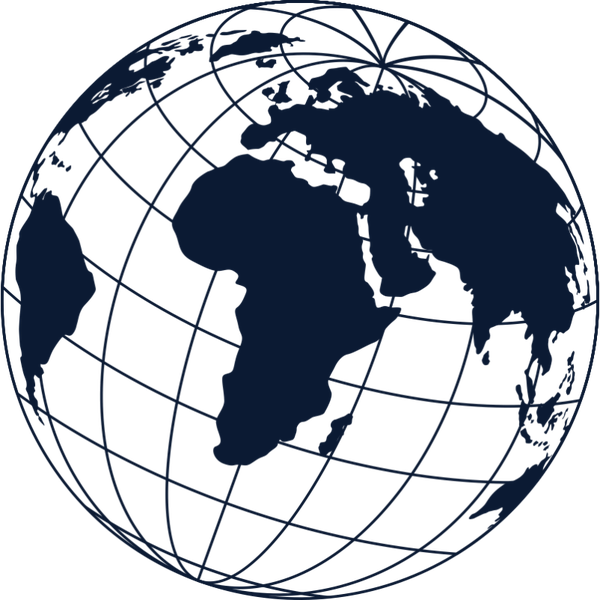
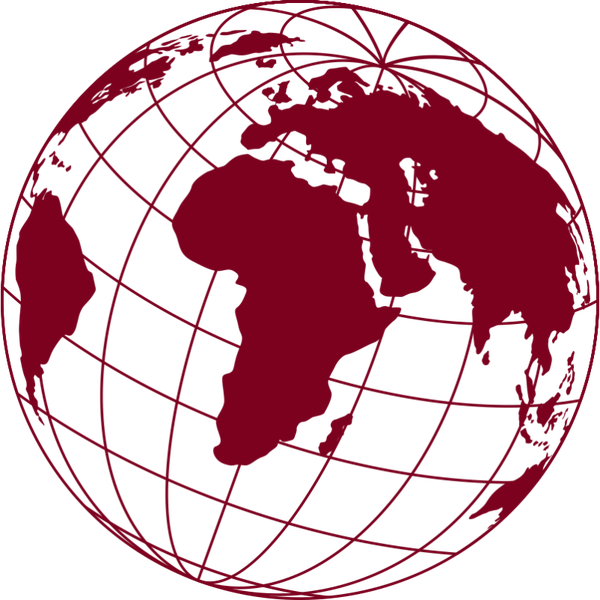
colour change

diff --git a/css/base.css b/css/base.css
@@ -1,36 +1,37 @@
-/* Shared: colours, fonts, ticket edge. Change the palette here. */
-:root{--navy:#0b1a33;--navy-2:#13264a;--cream:#f1ece1;--ivory:#ece6da;--ink:#1c2233;--taupe:#a89d90;--red:#c0392b;
+/* Shared: colours, fonts, ticket edge. Change the palette here.
+   --main = burgundy (page background + ticket cut-outs), --cream = ticket/card colour. */
+:root{--main:#7b011e;--main-2:#96132f;--cream:#f5f1e6;--ivory:#ece6da;--ink:#3a0a14;--taupe:#a89d90;--red:#7b011e;
 --serif:"Cormorant Garamond",Georgia,serif;--sans:"DM Sans","Helvetica Neue",Arial,sans-serif;--script:"Pinyon Script",cursive;}
 *{box-sizing:border-box;margin:0}
 html{scroll-behavior:smooth}
 body{overflow-x:hidden}
-body{background:var(--navy);color:var(--cream);font-family:var(--sans);font-size:1rem;line-height:1.6}
+body{background:var(--main);color:var(--cream);font-family:var(--sans);font-size:1rem;line-height:1.6}
 /* Fonts: serif only for the main headings, sans (DM Sans) for everything else. Change --sans above to swap the body font. */
 h1,h2,.cal-date,.footer-title{font-family:var(--serif)}
 .page{max-width:440px;margin:0 auto;padding:28px 20px 60px;display:flex;flex-direction:column;gap:36px}
 h1,h2,h3{font-weight:500;line-height:1.15}
 /* Ticket shape: scalloped edge on top and bottom only (sides stay straight) + half-circle notch at top and bottom centre (--n = number of scallops, always odd so one sits under the centre notch) + quarter-circle cut at the 4 corners (--cn).
-   The cut-outs are painted in the page colour (--navy), so keep the page background navy. */
+   The cut-outs are painted in the page colour (--main), so keep the page background the same colour. */
 .ticket{--sc:7px;--nt:22px;--cn:16px;--n:15;--p:calc((100% - 2 * var(--cn)) / var(--n));background-color:var(--cream);color:var(--ink);padding:30px 26px;position:relative;overflow:hidden;border-radius:0;
  background-image:
-  linear-gradient(var(--navy),var(--navy)),
-  radial-gradient(circle at 0 0,var(--navy) var(--cn),#0000 calc(var(--cn) + .5px)),
-  radial-gradient(circle at 100% 0,var(--navy) var(--cn),#0000 calc(var(--cn) + .5px)),
-  radial-gradient(circle at 0 100%,var(--navy) var(--cn),#0000 calc(var(--cn) + .5px)),
-  radial-gradient(circle at 100% 100%,var(--navy) var(--cn),#0000 calc(var(--cn) + .5px)),
-  radial-gradient(circle at 50% 0,var(--navy) var(--nt),#0000 calc(var(--nt) + .5px)),
-  radial-gradient(circle at 50% 100%,var(--navy) var(--nt),#0000 calc(var(--nt) + .5px)),
+  linear-gradient(var(--main),var(--main)),
+  radial-gradient(circle at 0 0,var(--main) var(--cn),#0000 calc(var(--cn) + .5px)),
+  radial-gradient(circle at 100% 0,var(--main) var(--cn),#0000 calc(var(--cn) + .5px)),
+  radial-gradient(circle at 0 100%,var(--main) var(--cn),#0000 calc(var(--cn) + .5px)),
+  radial-gradient(circle at 100% 100%,var(--main) var(--cn),#0000 calc(var(--cn) + .5px)),
+  radial-gradient(circle at 50% 0,var(--main) var(--nt),#0000 calc(var(--nt) + .5px)),
+  radial-gradient(circle at 50% 100%,var(--main) var(--nt),#0000 calc(var(--nt) + .5px)),
   linear-gradient(var(--cream),var(--cream)),
   linear-gradient(var(--cream),var(--cream)),
-  radial-gradient(circle at 50% 0,var(--navy) var(--sc),#0000 calc(var(--sc) + .5px)),
-  radial-gradient(circle at 50% 100%,var(--navy) var(--sc),#0000 calc(var(--sc) + .5px));
+  radial-gradient(circle at 50% 0,var(--main) var(--sc),#0000 calc(var(--sc) + .5px)),
+  radial-gradient(circle at 50% 100%,var(--main) var(--sc),#0000 calc(var(--sc) + .5px));
  background-repeat:no-repeat,no-repeat,no-repeat,no-repeat,no-repeat,no-repeat,no-repeat,no-repeat,no-repeat,repeat-x,repeat-x;
  background-position:0 100%,0 0,100% 0,0 100%,100% 100%,center top,center bottom,center top,center bottom,var(--cn) 0,var(--cn) 100%;
  background-size:100% 1px,100% 100%,100% 100%,100% 100%,100% 100%,100% 100%,100% 100%,calc(var(--p) * 3) 14px,calc(var(--p) * 3) 14px,var(--p) 14px,var(--p) 14px}
 /* the two cream layers hide the scallops right next to the centre notch so nothing overlaps it */
 @media (max-width:360px){.ticket{--n:11}}
-.btn{display:inline-block;background:var(--navy);color:var(--cream);padding:12px 26px;border-radius:4px;text-decoration:none;letter-spacing:.06em;transition:transform .2s,background .2s}
-.btn:hover,.btn:focus-visible{background:var(--navy-2);transform:translateY(-2px)}
+.btn{display:inline-block;background:var(--main);color:var(--cream);padding:12px 26px;border-radius:4px;text-decoration:none;letter-spacing:.06em;transition:transform .2s,background .2s}
+.btn:hover,.btn:focus-visible{background:var(--main-2);transform:translateY(-2px)}
 :focus-visible{outline:2px solid var(--red);outline-offset:3px}
 .reveal{opacity:0;transform:translateY(16px);transition:opacity .8s ease,transform .8s ease}
 .reveal.in{opacity:1;transform:none}

diff --git a/css/dresscode.css b/css/dresscode.css
@@ -1,19 +1,19 @@
 /* Dress code: ticket with the curves and semicircle on the LEFT and RIGHT sides.
-   Cut-outs are painted in the page colour (--navy). --n = number of side curves (odd). */
+   Cut-outs are painted in the page colour (--main). --n = number of side curves (odd). */
 .dresscode{--sc:7px;--nt:22px;--cn:16px;--n:7;--p:calc((100% - 2 * var(--cn)) / var(--n));
  position:relative;overflow:hidden;text-align:center;margin-inline:-12px;padding:24px 44px 22px;background-color:var(--cream);color:var(--ink);
  background-image:
-  linear-gradient(var(--navy),var(--navy)),
-  radial-gradient(circle at 0 0,var(--navy) var(--cn),#0000 calc(var(--cn) + .5px)),
-  radial-gradient(circle at 100% 0,var(--navy) var(--cn),#0000 calc(var(--cn) + .5px)),
-  radial-gradient(circle at 0 100%,var(--navy) var(--cn),#0000 calc(var(--cn) + .5px)),
-  radial-gradient(circle at 100% 100%,var(--navy) var(--cn),#0000 calc(var(--cn) + .5px)),
-  radial-gradient(circle at 0 50%,var(--navy) var(--nt),#0000 calc(var(--nt) + .5px)),
-  radial-gradient(circle at 100% 50%,var(--navy) var(--nt),#0000 calc(var(--nt) + .5px)),
+  linear-gradient(var(--main),var(--main)),
+  radial-gradient(circle at 0 0,var(--main) var(--cn),#0000 calc(var(--cn) + .5px)),
+  radial-gradient(circle at 100% 0,var(--main) var(--cn),#0000 calc(var(--cn) + .5px)),
+  radial-gradient(circle at 0 100%,var(--main) var(--cn),#0000 calc(var(--cn) + .5px)),
+  radial-gradient(circle at 100% 100%,var(--main) var(--cn),#0000 calc(var(--cn) + .5px)),
+  radial-gradient(circle at 0 50%,var(--main) var(--nt),#0000 calc(var(--nt) + .5px)),
+  radial-gradient(circle at 100% 50%,var(--main) var(--nt),#0000 calc(var(--nt) + .5px)),
   linear-gradient(var(--cream),var(--cream)),
   linear-gradient(var(--cream),var(--cream)),
-  radial-gradient(circle at 0 50%,var(--navy) var(--sc),#0000 calc(var(--sc) + .5px)),
-  radial-gradient(circle at 100% 50%,var(--navy) var(--sc),#0000 calc(var(--sc) + .5px));
+  radial-gradient(circle at 0 50%,var(--main) var(--sc),#0000 calc(var(--sc) + .5px)),
+  radial-gradient(circle at 100% 50%,var(--main) var(--sc),#0000 calc(var(--sc) + .5px));
  background-repeat:no-repeat,no-repeat,no-repeat,no-repeat,no-repeat,no-repeat,no-repeat,no-repeat,no-repeat,repeat-y,repeat-y;
  background-position:0 100%,0 0,100% 0,0 100%,100% 100%,0 0,0 0,left center,right center,0 var(--cn),100% var(--cn);
  background-size:100% 1px,100% 100%,100% 100%,100% 100%,100% 100%,100% 100%,100% 100%,14px calc(var(--p) * 3),14px calc(var(--p) * 3),14px var(--p),14px var(--p)}

diff --git a/css/memories.css b/css/memories.css
@@ -8,9 +8,9 @@
    Change a photo's size by editing its grid-column / grid-row line below (6 columns, rows of equal height). */
 .gallery{display:grid;grid-template-columns:repeat(6,1fr);grid-auto-rows:56px;gap:8px;margin-top:22px}
 .gallery .g{aspect-ratio:auto;border-radius:14px;margin:0;background-size:cover;background-position:center;font-size:.85rem}
-.g1{grid-column:1/5;grid-row:1/5;background-image:url(../images/memory1.jpg),linear-gradient(135deg,#2b3d5f,#516487)}
-.g2{grid-column:5/7;grid-row:1/3;background-image:url(../images/memory2.jpg),linear-gradient(135deg,#3a4d70,#5b6f94)}
-.g3{grid-column:5/7;grid-row:3/5;background-image:url(../images/memory3.jpg),linear-gradient(135deg,#2b3d5f,#516487)}
-.g4{grid-column:1/3;grid-row:5/9;background-image:url(../images/memory4.jpg),linear-gradient(135deg,#3a4d70,#5b6f94)}
-.g5{grid-column:3/7;grid-row:5/7;background-image:url(../images/memory5.jpg),linear-gradient(135deg,#2b3d5f,#516487)}
-.g6{grid-column:3/7;grid-row:7/9;background-image:url(../images/memory6.jpg),linear-gradient(135deg,#3a4d70,#5b6f94)}
+.g1{grid-column:1/5;grid-row:1/5;background-image:url(../images/memory1.jpg),linear-gradient(135deg,#5e0117,#93304a)}
+.g2{grid-column:5/7;grid-row:1/3;background-image:url(../images/memory2.jpg),linear-gradient(135deg,#6d0a24,#a14058)}
+.g3{grid-column:5/7;grid-row:3/5;background-image:url(../images/memory3.jpg),linear-gradient(135deg,#5e0117,#93304a)}
+.g4{grid-column:1/3;grid-row:5/9;background-image:url(../images/memory4.jpg),linear-gradient(135deg,#6d0a24,#a14058)}
+.g5{grid-column:3/7;grid-row:5/7;background-image:url(../images/memory5.jpg),linear-gradient(135deg,#5e0117,#93304a)}
+.g6{grid-column:3/7;grid-row:7/9;background-image:url(../images/memory6.jpg),linear-gradient(135deg,#6d0a24,#a14058)}

diff --git a/css/hero-ticket.css b/css/hero-ticket.css
@@ -2,8 +2,8 @@
 .hero-top,.hero-bottom{font-size:.8rem;letter-spacing:.3em;text-transform:uppercase;padding:6px 0;border-bottom:1px dashed var(--taupe)}
 .hero-bottom{border:0;border-top:1px dashed var(--taupe);margin-top:22px}
 .hero-globe{display:block;width:130px;height:auto;margin:22px auto 6px}
-.hero-names{font-size:clamp(1.55rem,7.2vw,1.95rem);text-transform:uppercase;font-weight:500}
-.hero-and{display:block;font-family:var(--script);text-transform:none;letter-spacing:0;line-height:1.5em;font-size:1.8rem;;color:var(--taupe)}
+.hero-names{font-size:clamp(1.55rem,7.2vw,2.05rem);letter-spacing:.1em;text-transform:uppercase;font-weight:500}
+.hero-and{display:block;font-family:var(--script);text-transform:none;letter-spacing:0;font-size:1.8rem;color:var(--taupe)}
 .hero-grid{display:grid;grid-template-columns:1fr 1fr;border:1px solid var(--taupe);margin-top:22px;text-align:left}
 .hero-grid div{padding:10px 12px;border:1px solid var(--taupe);margin:-.5px}
 .hero-grid dt{font-size:.7rem;letter-spacing:.14em;text-transform:uppercase;color:#6c6a66}

diff --git a/css/timeline.css b/css/timeline.css
@@ -3,7 +3,7 @@
 .timeline h2{text-align:center;font-size:1.7rem;letter-spacing:.14em;text-transform:uppercase;margin-bottom:22px}
 .timeline ol{list-style:none;padding:0 6px 0 22px;border-left:1px solid var(--cream);margin-left:24px;margin-right:100px}
 .timeline li{display:flex;justify-content:space-between;padding:12px 0;position:relative}
-.timeline li::before{content:"";position:absolute;left:-28px;top:50%;width:9px;height:9px;margin-top:-4px;border:1px solid var(--cream);border-radius:50%;background:var(--navy)}
+.timeline li::before{content:"";position:absolute;left:-28px;top:50%;width:9px;height:9px;margin-top:-4px;border:1px solid var(--cream);border-radius:50%;background:var(--main)}
 /* dotted flight path on the right, plane flies bottom to top once */
 .timeline-path{position:absolute;right:0;bottom:30px;width:96px;height:300px;overflow:visible}
 .timeline-path path:first-child{fill:none;stroke:var(--cream);stroke-width:1.3;stroke-dasharray:3 4;opacity:.7}

diff --git a/css/footer.css b/css/footer.css
@@ -1,8 +1,8 @@
 /* Plain footer */
-.footer{text-align:center;border-top:1px solid #f1ece136;padding:36px 0 8px}
+.footer{text-align:center;border-top:1px solid #f5f1e636;padding:36px 0 8px}
 .footer-title{font-family:var(--serif);font-size:1.7rem;letter-spacing:.1em;text-transform:uppercase}
 .footer-note{font-size:.95rem;opacity:.8;margin-top:6px}
-.footer-btn{display:inline-block;margin:16px 0 22px;padding:11px 30px;background:var(--cream);color:var(--navy);border-radius:4px;text-decoration:none;letter-spacing:.08em;transition:transform .2s}
+.footer-btn{display:inline-block;margin:16px 0 22px;padding:11px 30px;background:var(--cream);color:var(--main);border-radius:4px;text-decoration:none;letter-spacing:.08em;transition:transform .2s}
 .footer-btn:hover,.footer-btn:focus-visible{transform:translateY(-2px)}
 .footer-sign{font-family:var(--script);font-size:2rem;line-height:1.2}
 .footer-date{font-size:.8rem;letter-spacing:.24em;opacity:.7;margin-top:4px}

diff --git a/css/photo.css b/css/photo.css
@@ -1,4 +1,4 @@
-.photo{aspect-ratio:4/3;border-radius:18px;background:linear-gradient(135deg,#2b3d5f,#516487);display:grid;place-items:center;text-align:center;color:#d8dbe3;overflow:hidden;background-size:cover;background-position:center}
+.photo{aspect-ratio:4/3;border-radius:18px;background:linear-gradient(135deg,#5e0117,#93304a);display:grid;place-items:center;text-align:center;color:#f0e4e6;overflow:hidden;background-size:cover;background-position:center}
 .photo small{opacity:.7}
 .photo-wide{margin-top:14px}
 /* To use a real photo: .photo{background-image:url(../images/couple.jpg)} */
